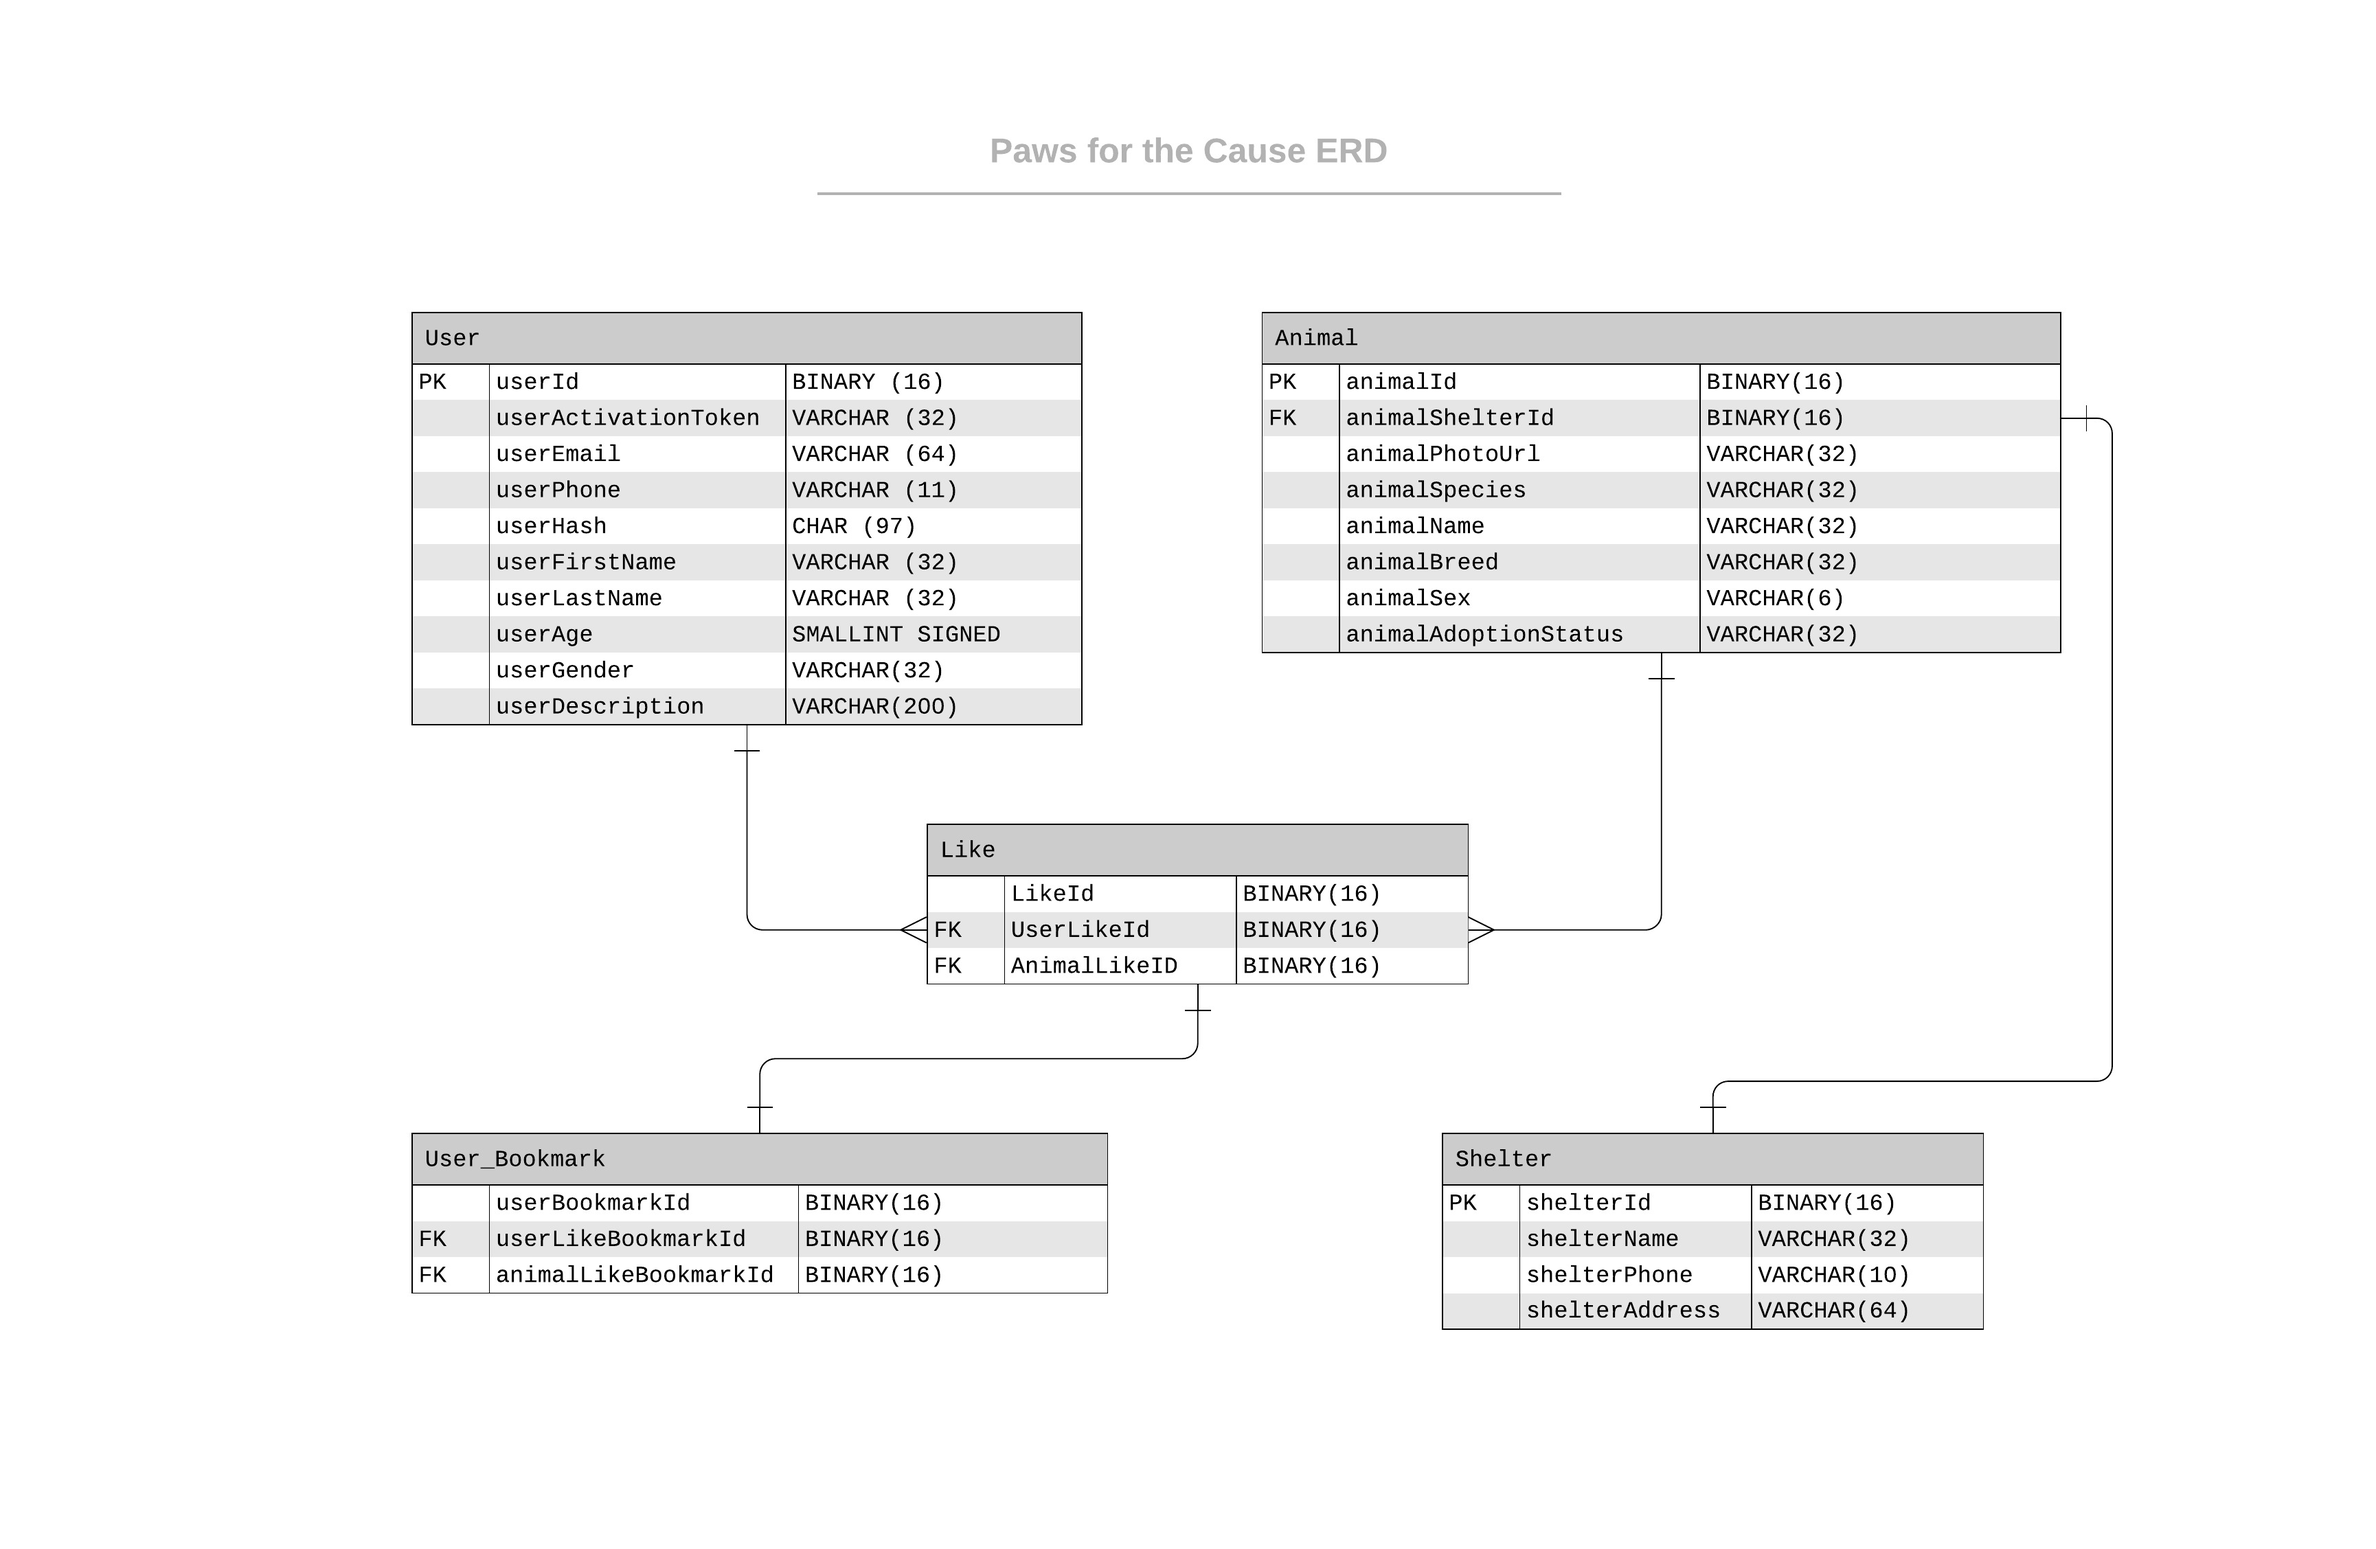
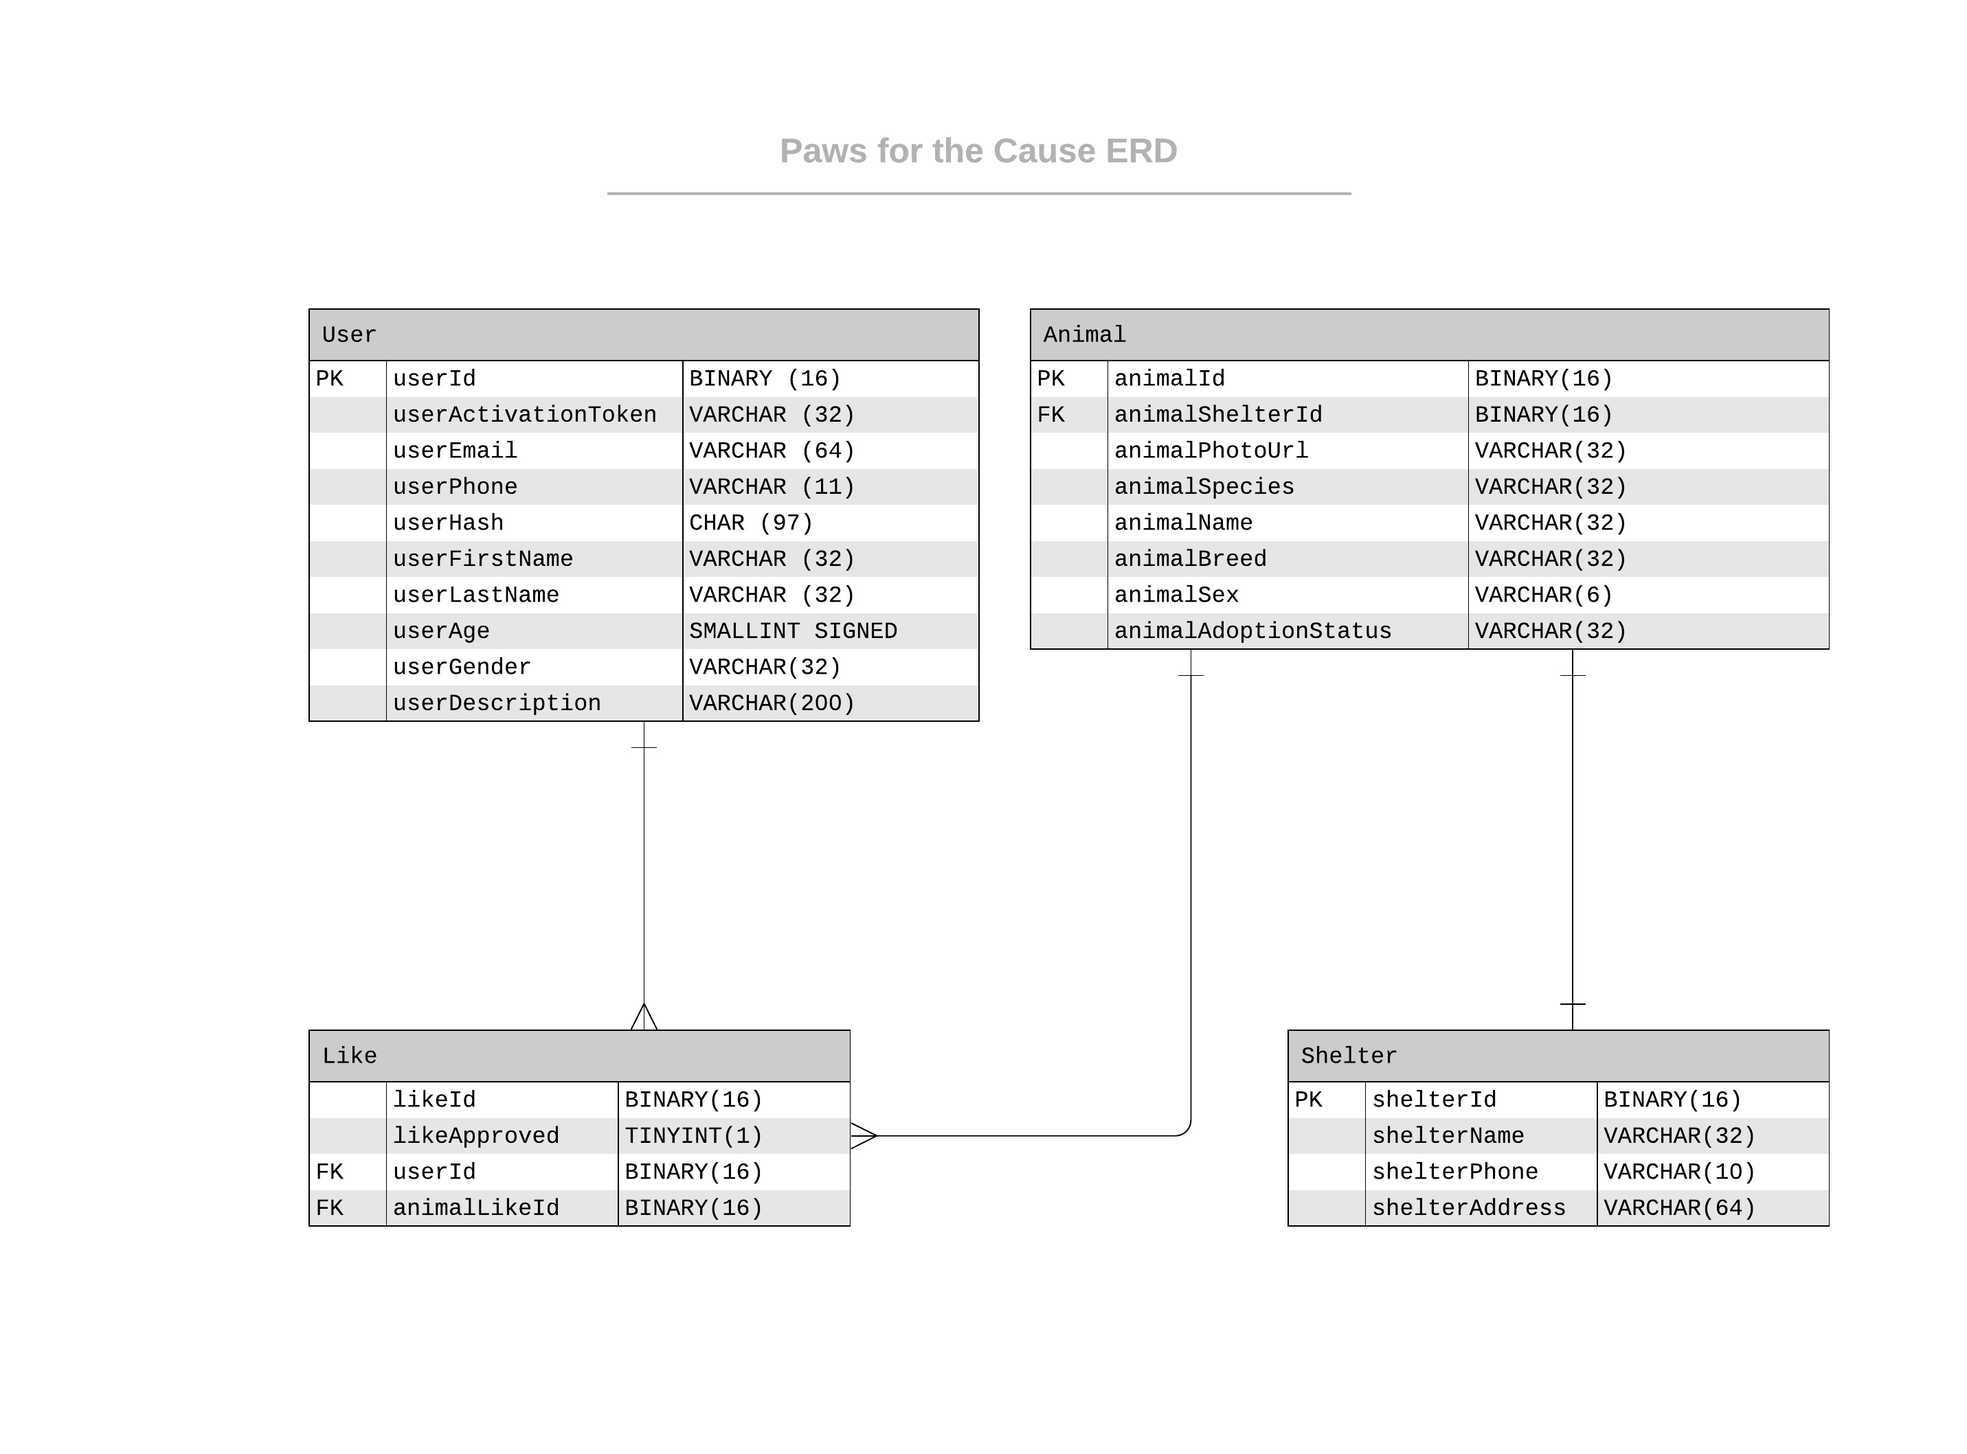
nuked User_Bookmark, Added likeApproved attribute

diff --git a/epic/concept-model.html b/epic/concept-model.html
@@ -44,16 +44,10 @@
 
 <h4>Like</h4>
 <ul>
-	<li>LikeId BINARY(16) NOT NULL</li>
-	<li>UserLikeId BINARY(16) Foreign Key</li>
-	<li>AnimalLikeId BINARY(16) Foreign Key</li>
-</ul>
-
-<h4>User_Bookmark</h4>
-<ul>
-	<li>userBookmarkId BINARY(16) </li>
-	<li>userLikeBookmarkId BINARY(16) NOT NULL, Foreign Key</li>
-	<li>animalLikeBookmarkId BINARY(16) NOT NULL Foreign Key</li>
+	<li>likeId BINARY(16) NOT NULL</li>
+	<li>likeApproved TINYINT(1) NOT NULL</li>
+	<li>userLikeId BINARY(16) Foreign Key</li>
+	<li>animalLikeId BINARY(16) Foreign Key</li>
 </ul>
 
 <img class="erd_img" src="img/paws-for-the-cause-erd.jpeg" alt="Entity Relationship Diagram for Paws for the Cause project">
